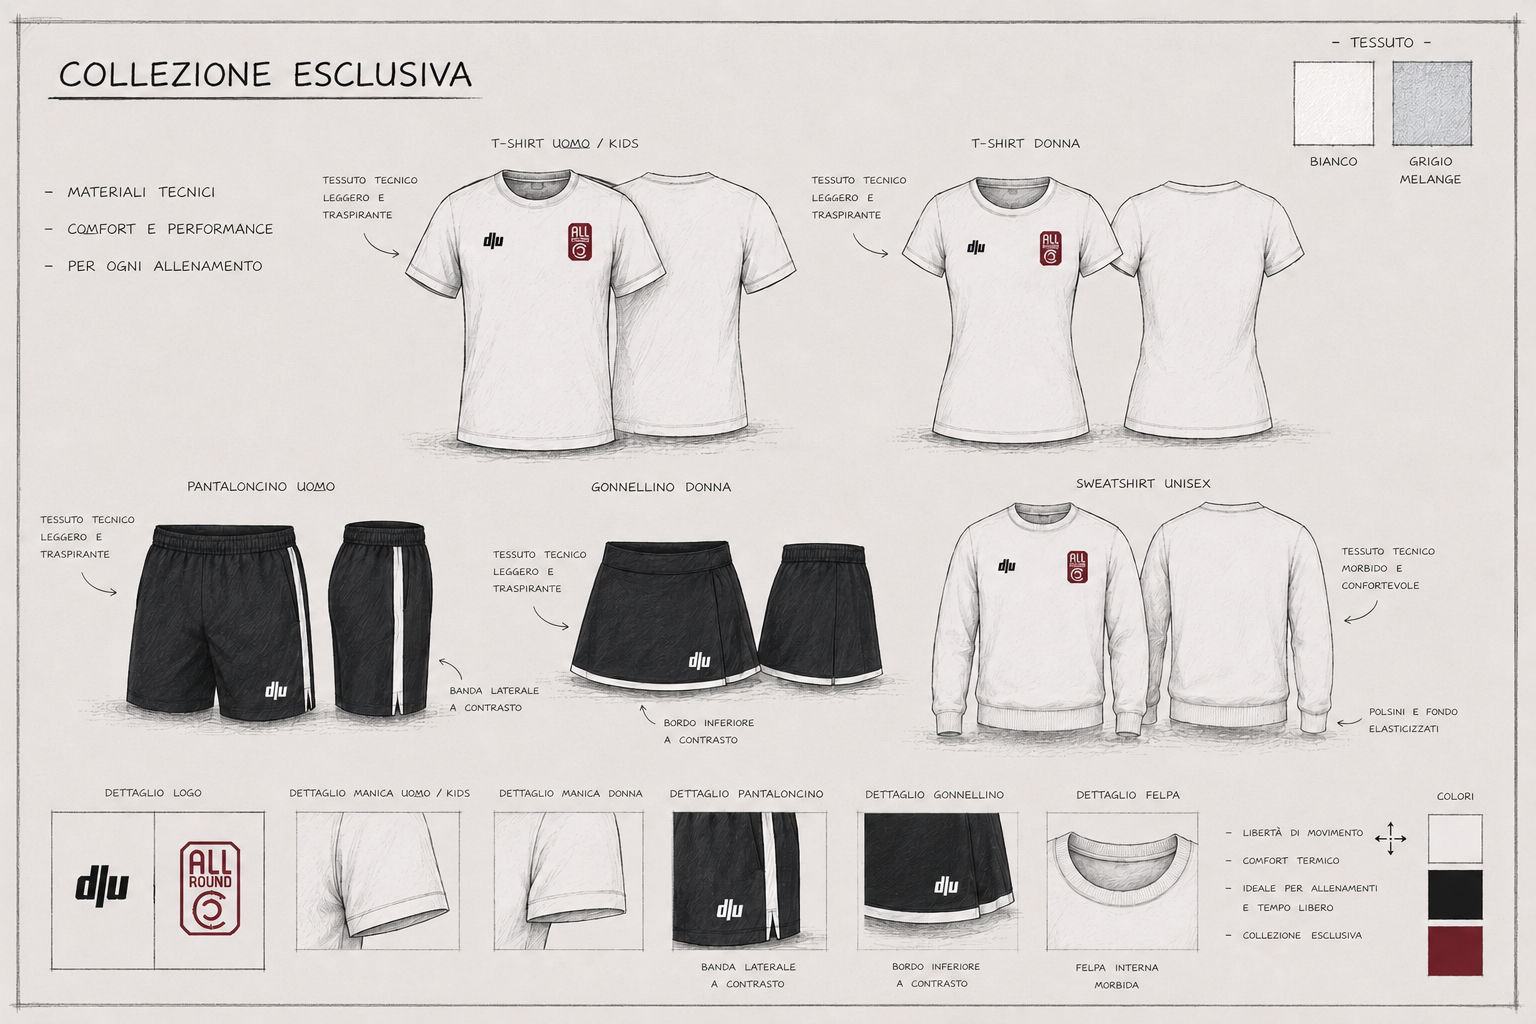
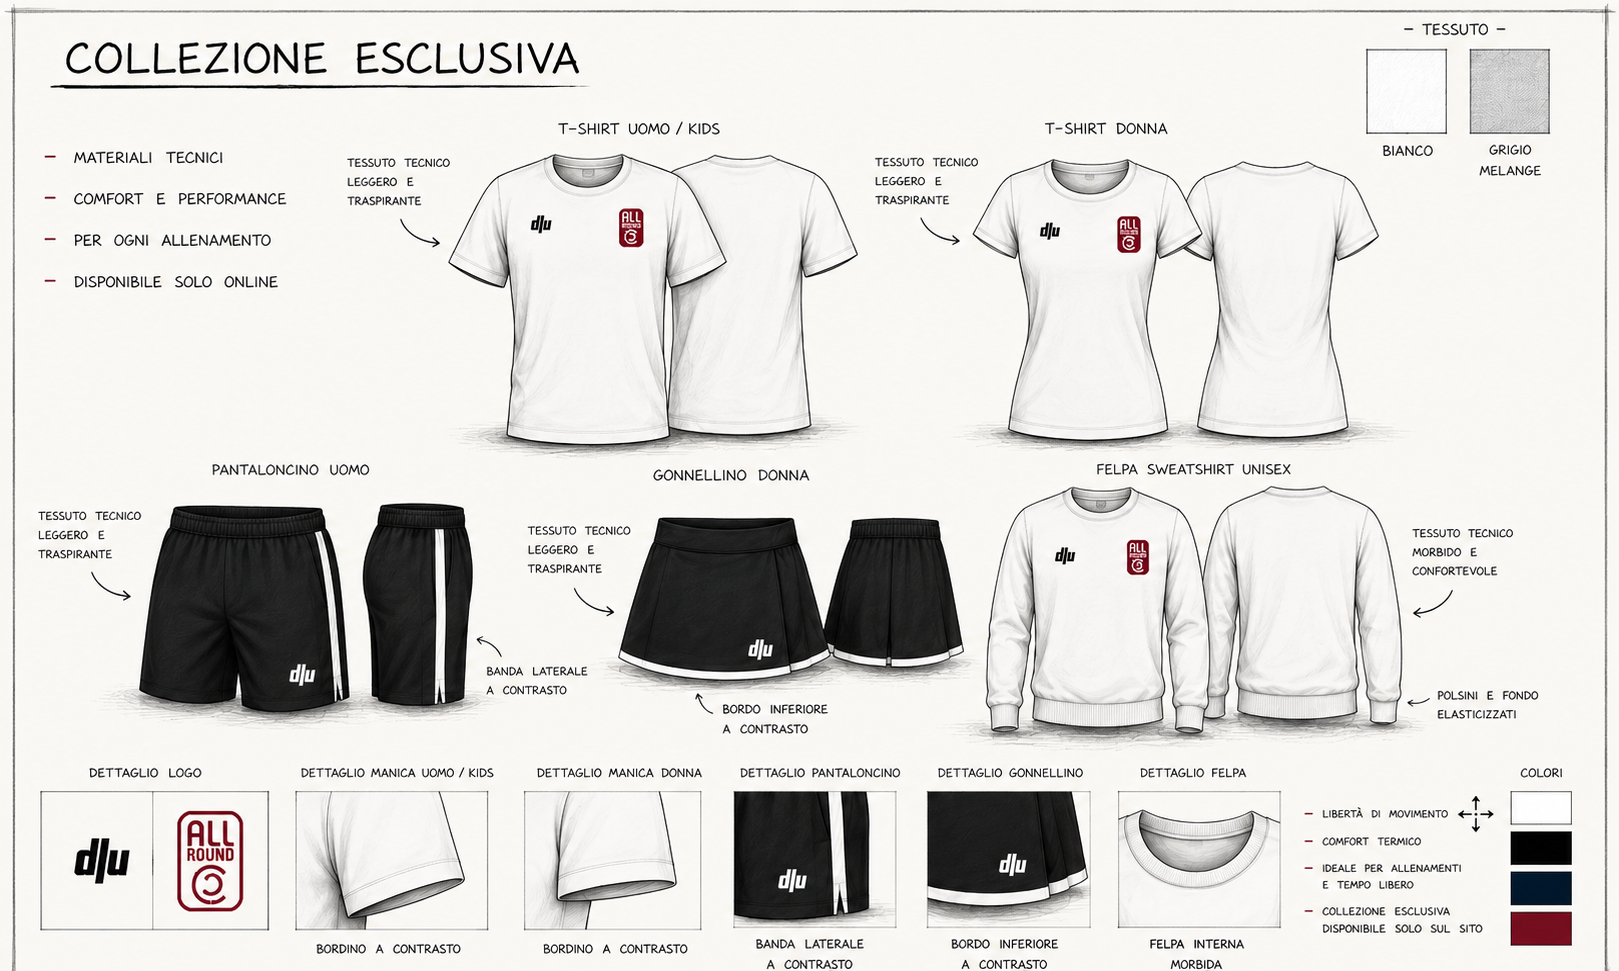
Replace All Round solution images with updated versions
Swap linea basic, linea premium and area soci with clean
background versions. Linea premium changed from .jpg to .png.

https://claude.ai/code/session_01N1t3iCUGj9ATaGUxyZiEmD

Changed region(s): [[0.0, 0.0, 1.0, 1.0], [0.5312, 0.4634, 0.5625, 0.4943]]

diff --git a/casestudies/all-round.html b/casestudies/all-round.html
@@ -136,7 +136,7 @@
 
           <div class="csd-solution-block">
             <div class="csd-solution-img">
-              <img src="../assets/images/all-round-linea-premium.jpg" alt="Linea Premium All Round">
+              <img src="../assets/images/all-round-linea-premium.png" alt="Linea Premium All Round">
             </div>
             <div class="csd-solution-body">
               <div class="csd-solution-label">Linea Premium</div>